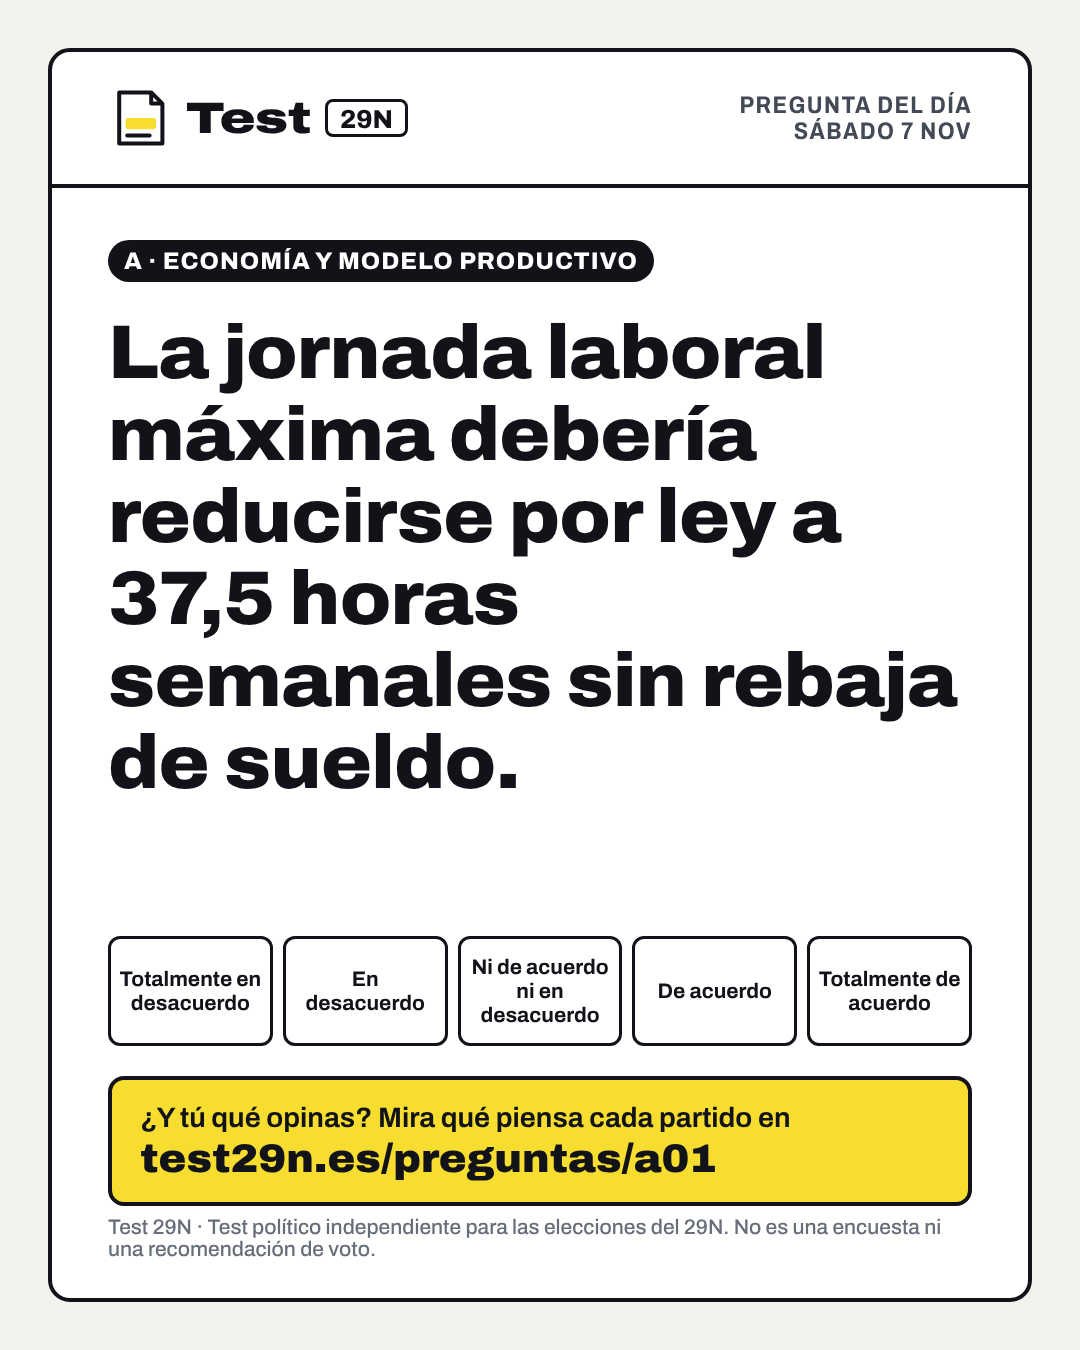
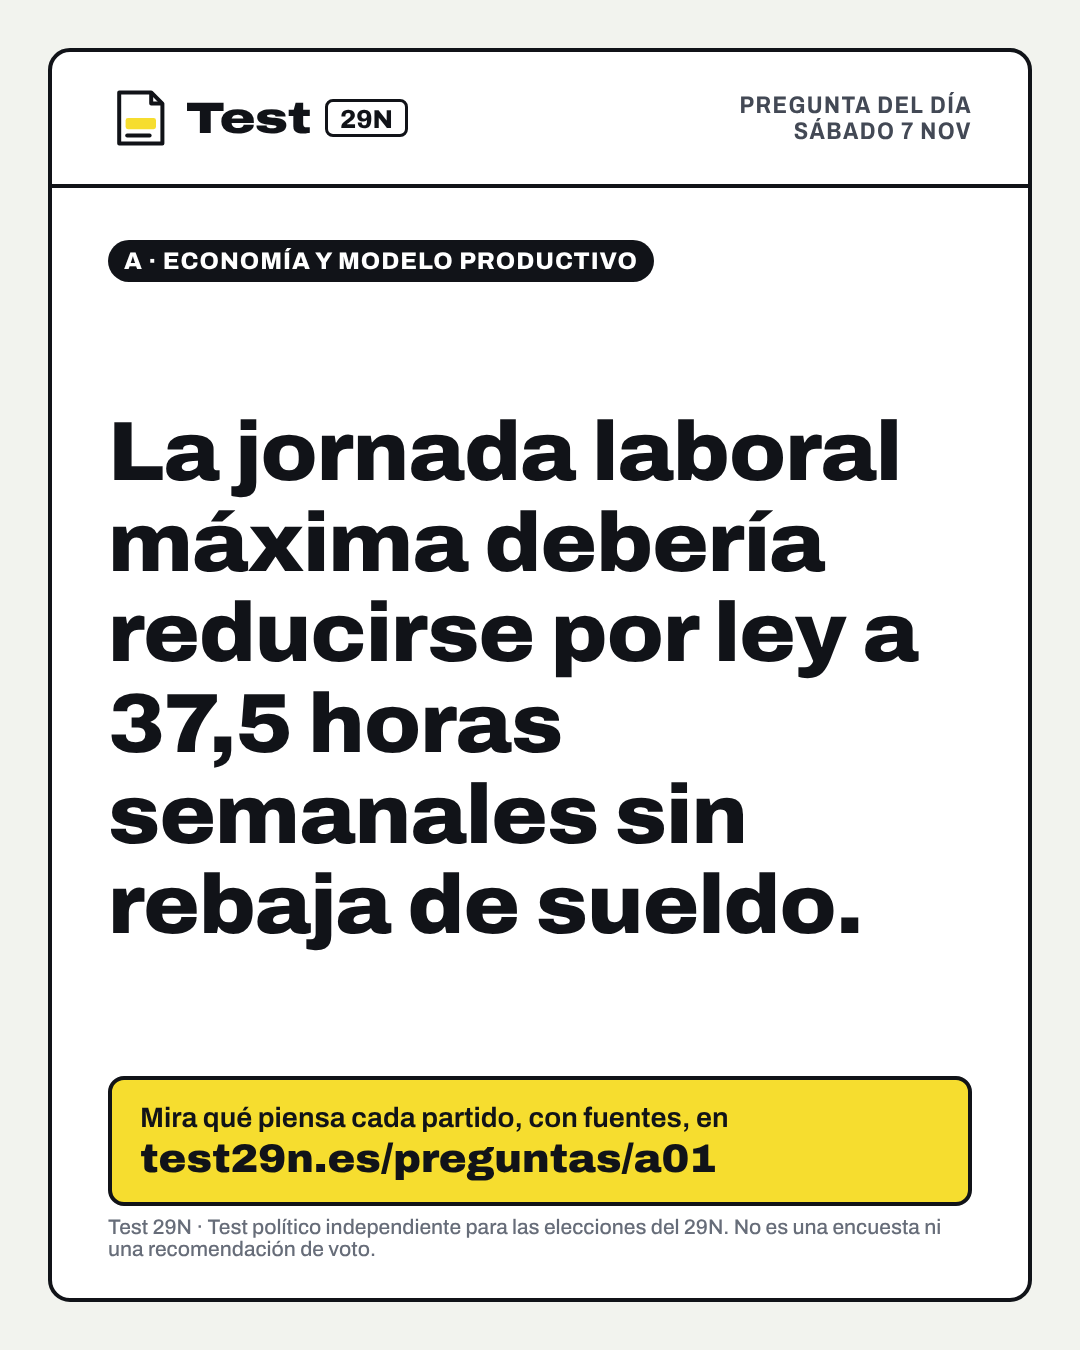
fix(T10): correcciones de la revisión, contactos del kit y estado
Claude-Session: https://claude.ai/code/session_014a98ujJVWkUYTS36vtSwAt

Changed region(s): [[0.0917, 0.2178, 0.9167, 0.7778], [0.1222, 0.8089, 0.7333, 0.84]]

diff --git a/assets/papeleta.js b/assets/papeleta.js
@@ -653,7 +653,7 @@ function topicDims(st) {
   return Object.keys(n).filter((d) => n[d] >= 2);
 }
 function profileSentence(M) {
-  const st = ST(), td = topicDims(st), tl = topicOf(st)?.label.toLowerCase();
+  const st = ST(), td = topicDims(st), tl = st?.topic === "territorio" ? "organización territorial" : topicOf(st)?.label.toLowerCase();
   const dims = Object.entries(M.user.dims).filter(([k]) => !td || td.includes(k));
   const strong = dims.filter(([, o]) => Math.abs(o.v) >= 25).sort((a, b) => Math.abs(b[1].v) - Math.abs(a[1].v));
   const mixed = BANK.dims.filter((d) => M.user.dims[d.id] && (!td || td.includes(d.id)) && Math.abs(M.user.dims[d.id].v) < 25);
@@ -1702,7 +1702,7 @@ function bindResults() {
       renderQuestion(0); go("quiz", { focus: false }); focusStatement();
     } else if (act === "new") {
       if (!confirm("¿Empezar de nuevo? Se borrarán tus respuestas guardadas en este navegador.")) return;
-      const keep = { mode: S.mode }; S = null; store.del(KEY); fillSetup(keep); go("home"); $("#start-btn").focus(); }
+      const keep = { mode: S.mode === "tema" ? "rapida" : S.mode }; S = null; store.del(KEY); fillSetup(keep); go("home"); $("#start-btn").focus(); }
     else if (act === "forget-friend") { store.del(FRIEND_KEY); renderFriend(); toast("Resultado compartido olvidado"); }
     else if (act === "own-test") { SHARED = null; try { history.replaceState(null, "", location.pathname + location.search); } catch { /* sin historial */ } S = loadState(); fillSetup(); go("home"); }
   });
@@ -2085,7 +2085,7 @@ async function drawCard(fmt) {
     if (withParty) { drawParty(g, L, y, CW, 168, M, st, 66); y += 168 + 30; }
     if (td && withParty) {
       drawDims(g, L, y, CW, 70, M, { nameW: 330, fs: 27, bar: 10, poles: true, dims: dl });
-      const ny = y + 70 * nd + 6, nh = (H - m - 120 - ny) / 3;
+      const ny = y + 70 * nd + 22, nh = (H - m - 120 - ny) / 3;
       drawNext(g, L, ny, CW, Math.min(64, nh), M, st, 24, 3);
     } else {
       const sq = dimsAt(y, H - m - 120 - y, td ? 90 : 62);

diff --git a/papeleta-29n.html b/papeleta-29n.html
@@ -101,7 +101,7 @@
 
     <section class="wrap band" id="temas" aria-labelledby="temas-h">
       <h2 id="temas-h" class="h2">Tests por tema</h2>
-      <p class="small muted">¿Solo te interesa un asunto? Responde de 6 a 7 preguntas sobre ese tema y mira con qué candidaturas coincides en él. Después puedes seguir con el test completo sin perder tus respuestas.</p>
+      <p class="small muted">¿Solo te interesa un asunto? Responde 6 o 7 preguntas sobre ese tema y mira con qué candidaturas coincides en él. Después puedes seguir con el test completo sin perder tus respuestas.</p>
       <ul class="topic-list" id="topic-list"></ul>
     </section>
 

diff --git a/plan/KIT.md b/plan/KIT.md
@@ -17,19 +17,19 @@ Preparado el 24 de octubre de 2026 (tanda T10). Lo ejecuta el titular: Claude no
 > https://test29n.es/tests/
 
 **Por tema** (cambia el tema y el enlace; imagen `test-<tema>.png`)
-> Test de vivienda para el 29N: 7 preguntas sobre alquiler, desahucios, okupación, pisos turísticos y viviendas vacías. Compara tus respuestas con las de los partidos que se presentan en tu provincia. No te dice a quién votar. https://test29n.es/tests/vivienda/
+> Test de vivienda para el 29N: 7 preguntas sobre alquiler, desahucios, viviendas ocupadas sin permiso, pisos turísticos y viviendas vacías. Compara tus respuestas con las de los partidos que se presentan en tu provincia. No te dice a quién votar. https://test29n.es/tests/vivienda/
 
 Enlaces: `/tests/vivienda/`, `/tests/inmigracion/`, `/tests/economia/`, `/tests/sanidad/`, `/tests/energia/`, `/tests/territorio/`.
 
 **Guion de vídeo corto (20–30 s, vertical)**
 1. (0–3 s) Texto en pantalla: «¿Con qué partido coincides en vivienda?»
 2. (3–12 s) Grabación de pantalla respondiendo 3 preguntas del test de vivienda.
-3. (12–20 s) Resultado: «Tu mayor coincidencia en tu provincia» (difumina el partido si quieres evitar cualquier lectura partidista) y el botón «Afinar con la versión exprés».
+3. (12–20 s) Resultado **sin ningún partido visible** (desmarca la opción de incluir el partido al compartir o difumínalo siempre) y el botón «Afinar con la versión exprés».
 4. (20–25 s) Cierre: «6 temas, 2 minutos cada uno. test29n.es/tests. No te dice a quién votar.»
 
 ### Reta a un amigo
 **Corto**
-> ¿Cuánto coincides en política con tus amigos? Haz el Test 29N y pulsa «Reta a un amigo»: le llega un enlace para comparar vuestros resultados. Sin registro y sin que tus respuestas salgan de tu móvil (solo las ve quien abre tu enlace). https://test29n.es
+> ¿Cuánto coincides en política con tus amigos? Haz el Test 29N y pulsa «Reta a un amigo»: le llega un enlace para comparar vuestros resultados. Sin registro: tus respuestas viajan dentro del enlace y no se guardan en ningún servidor. https://test29n.es
 
 **Guion de vídeo corto (15–20 s)**
 1. Dos personas, cada una con su móvil: «¿Apostamos a que no pensamos igual?»
@@ -94,4 +94,71 @@ Imagen diaria: `https://test29n.es/redes/pregunta-AAAA-MM-DD.png`. Fechas oficia
 
 ## 3. Contactos con canal público
 
-CONTACTOS
+Comprobados el 24 de octubre de 2026: cada canal aparece en la página indicada en «Visto en». No se ha contactado con nadie. «(solo redes)»: sin correo ni formulario verificado, solo su perfil oficial. **Orden de prioridad:** primero los docentes y las asociaciones (usan el test en clase y con jóvenes, sin coste de imagen partidista), después los medios de verificación y datos, y por último los creadores. Dentro de cada sección, de más a menos prioritario.
+
+**Cómo escribir:** un mensaje corto y personal, sin adjuntos pesados, con el enlace a https://test29n.es/prensa/ (imágenes, botón y mini test insertable). Nunca después del 23 de noviembre.
+
+### 3.1 Docentes y educación
+
+| Nombre | Por qué | Contacto público | Visto en |
+|---|---|---|---|
+| Red Española de Filosofía (REF) | Red del profesorado y de las asociaciones de filosofía | info@redfilosofia.es | https://redfilosofia.es/contacto-2/ |
+| Educación 3.0 | Portal y revista para docentes | redaccion@educaciontrespuntocero.com | https://www.educaciontrespuntocero.com/contacto/ |
+| El Diario de la Educación | Medio especializado en educación | redaccion@eldiariodelaeducacion.com | https://eldiariodelaeducacion.com/ |
+| Asociación Andaluza de Filosofía (AAFi) | Profesorado de filosofía de secundaria | Formulario: https://aafi.es/contacto-con-la-aafi/ | https://aafi.es/contacto-con-la-aafi/ |
+| Magisnet / Magisterio | Periódico para docentes | Formulario: https://www.magisnet.com/contacto/ | https://www.magisnet.com/contacto/ |
+| AECPA, Asociación Española de Ciencia Política y de la Administración | Red académica de ciencia política | info@aecpa.es | https://www.aecpa.es/ |
+| CREUP | Representación estudiantil universitaria | prensa@creup.es · info@creup.es | https://creup.es/contacto/ |
+| ANPE | Sindicato independiente del profesorado | anpe@anpe.es (o formulario) | https://www.anpe.es/contacto |
+| Departamento de Ciencia Política y Sociología, Universidade de Santiago de Compostela | Departamento universitario | departamento.politicaesocioloxia@usc.es (publicado con «[at]») | https://www.usc.gal/es/departamento/ciencia-politica-sociologia |
+| Facultad de Derecho de la UAM (Ciencia Política) | Grado de Ciencia Política | derecho.informacion@uam.es | https://www.uam.es/Derecho/CienciaPolitica/ |
+
+### 3.2 Asociaciones
+
+| Nombre | Por qué | Contacto público | Visto en |
+|---|---|---|---|
+| Consejo de la Juventud de España (CJE) | Plataforma estatal de entidades juveniles | info@cje.org (o formulario) | https://www.cje.org/contacto/ |
+| CANAE | Estudiantes de secundaria; participación juvenil | info@canae.org | https://canae.org/ |
+| Fundación Ciudadana Civio | Periodismo de datos y transparencia | contacto@civio.es | https://civio.es/nosotros/contacto/ |
+| Political Watch | Seguimiento parlamentario y de políticas públicas | info@politicalwatch.es | https://politicalwatch.es/ (pie de página) |
+| Consell Nacional de la Joventut de Catalunya (CNJC) | Plataforma juvenil catalana | Formulario: https://cnjc.cat/es/contacto | https://cnjc.cat/es/contacto |
+| Consejo de la Juventud de Castilla y León | Consejo juvenil autonómico | cjcyl@cjcyl.es | https://www.cjcyl.es/ |
+| Consejo de la Juventud de Extremadura (CJEx) | Consejo juvenil autonómico | info@cjex.org | https://www.cjex.org/contacto/ |
+| Access Info Europe | Acceso a la información pública | info@access-info.org | https://www.access-info.org/es/contact/ |
+| Transparencia Internacional España | Transparencia y lucha contra la corrupción | comunicacion@transparencia.org.es | https://transparencia.org.es/contacto/ |
+| Fundación Hay Derecho | Estado de derecho y calidad institucional | info@hayderecho.com (o formulario) | https://www.hayderecho.com/contacta-con-nosotros/ |
+
+### 3.3 Medios
+
+| Nombre | Por qué | Contacto público | Visto en |
+|---|---|---|---|
+| Newtral | Verificación de datos y explicación de política | info@newtral.es | https://www.newtral.es/contacto/ |
+| EFE Verifica | Verificación de la Agencia EFE | verifica@efe.com | https://verifica.efe.com/contacto/ |
+| VerificaRTVE | Verificación de la radiotelevisión pública | verificartve@rtve.es | https://www.rtve.es/noticias/verificartve/ |
+| Maldita.es (solo redes) | Verificación y periodismo de datos | https://twitter.com/maldita · https://www.instagram.com/maldita.es/ | https://maldita.es/ (pie de página) |
+| Verificat | Verificación de datos en Cataluña | hola@verificat.cat | https://www.verificat.cat/ |
+| elDiario.es | Diario nacional, política y datos | contacto@eldiario.es | https://www.eldiario.es/contacto/ |
+| El País | Diario nacional; cobertura electoral y datos | redaccion@elpais.es | https://elpais.com/info/contacto/ |
+| La Vanguardia (Política) | Diario de referencia en Cataluña | politica@lavanguardia.es | https://www.lavanguardia.com/contacto |
+| La Voz de Galicia (España) | Principal diario gallego | espana@lavoz.es | https://www.lavozdegalicia.es/contacto/ |
+| infoLibre | Diario digital de política | contacta@infolibre.es | https://www.infolibre.es/contacto/ |
+| Diario de Sevilla | Diario regional andaluz | redaccion@diariodesevilla.es | https://www.diariodesevilla.es/contacto/ |
+| CTXT | Revista de análisis político | info@ctxt.es | https://www.ctxt.es/es/contacto |
+
+### 3.4 Creadores y divulgadores
+
+| Nombre | Por qué | Contacto público | Visto en |
+|---|---|---|---|
+| Kiko Llaneras, boletín «Piensa claro» (solo redes) | Periodista de datos y de elecciones | https://twitter.com/kikollan · https://instagram.com/kikollan · https://kikollaneras.substack.com/ | https://substack.com/@kikollan |
+| Pablo Simón (solo redes) | Politólogo, divulga sobre sistemas electorales | https://twitter.com/kanciller | https://www.eldiario.es/autores/pablo_simon/ |
+| Politikon | Politólogos y economistas que divulgan con datos | contacto@politikon.es | https://politikon.es/contacto/ |
+| El Orden Mundial (EOM) | Divulgación política: web, boletín y redes | contacto@elordenmundial.com | https://elordenmundial.com/ (pie de página) |
+| Ac2ality (solo redes) | Noticias para jóvenes en TikTok e Instagram | https://www.tiktok.com/@ac2ality · https://www.instagram.com/ac2ality/ | https://www.ac2ality.com/ |
+| Agenda Pública | Análisis político escrito por académicos | info@agendapublica.es | https://agendapublica.es/contacto/ |
+| Piedras de Papel (solo redes) | Blog de politólogos en elDiario.es | https://twitter.com/Piedras_Papel | https://www.eldiario.es/piedrasdepapel/ |
+| VisualPolitik (solo redes) | Canal de YouTube de divulgación política | https://www.youtube.com/@VisualPolitik | https://www.visualpolitik.com/ |
+| The Political Room (solo redes) | Análisis político divulgativo | https://twitter.com/Political_Room · https://www.instagram.com/thepoliticalroom.tpr/ | https://thepoliticalroom.com/ |
+| Nada es Gratis | Blog de economía pública con fines didácticos | info@nadaesgratis.es | https://nadaesgratis.es/ |
+| El Grand Continent, en español (solo redes) | Revista de debate político europeo | https://twitter.com/Grand_Continent | https://legrandcontinent.eu/es/ |
+
+Se dejaron fuera, a propósito: buzones solo para privacidad o filtraciones (Maldita, pistas@eldiario.es), correos con nombre de persona, y medios cuyo canal no se pudo comprobar (RTVE general, El Confidencial, Cadena SER, Facultad de Políticas de la UCM). La búsqueda semanal de creadores (tarea programada) amplía esta lista.

diff --git a/plan/ESTADO.md b/plan/ESTADO.md
@@ -1,13 +1,14 @@
 # Estado del plan (lo más reciente arriba)
 
-## Ficha de continuidad (actualizada el 23 oct 2026)
+## Ficha de continuidad (actualizada el 24 oct 2026)
 
 **Aviso para la próxima tanda (leer primero).** El 20 oct se agotó el límite de uso y las tandas T9 (a medias), T2, T3 y T4 no llegaron a hacerse. Las tareas perdidas no se recuperan solas. Orden de trabajo acordado, por valor:
 1. ~~Cerrar T9, parte 1~~ **Hecho y publicado el 23 oct** (ver la entrada de abajo).
 2. ~~T2~~ **Hecho y publicado el 23 oct** (ver la entrada de abajo).
 3. ~~T3~~ **Hecho y publicado el 23 oct.**
 4. La tanda del día.
-5. ~~T4~~ **Hecho y publicado el 24 oct.** Siguiente: la tanda del día (T10) y después T5–T8 y T11 según el calendario.
+5. ~~T4~~ **Hecho y publicado el 24 oct.**
+6. ~~T10~~ **Hecho y publicado el 24 oct.** Siguiente: T5–T8 y T11 según el calendario.
 Cada tanda hace lo que le dé tiempo en este orden y anota aquí lo que quede. Referencia completa: `plan/ESTADO_MAESTRO_WEB_POLITICA.md`.
 
 
@@ -16,7 +17,8 @@ Cada tanda hace lo que le dé tiempo en este orden y anota aquí lo que quede. R
 - T9 · Buscadores y datos abiertos: completada y verificada (web real, 23 oct).
 - T2 · Test rápido y resultados: completada y verificada (web real, 23 oct).
 - T3 · Guía para votar y calendario: completada y verificada (web real, 23 oct).
-- T4 · Provincias, simulador y glosario: completada y verificada (web real, 24 oct). T10, T5–T8, T11: pendientes.
+- T4 · Provincias, simulador y glosario: completada y verificada (web real, 24 oct).
+- T10 · Tests por tema, imágenes para redes y kit: completada y verificada (web real, 24 oct). T5–T8, T11: pendientes.
 - R1, R2, S1, S2, P1: pendientes.
 - Donación por Bizum: bloqueada por dependencia externa (aprobación de Stripe; la comprueba otra tarea).
 
@@ -34,6 +36,17 @@ Cada tanda hace lo que le dé tiempo en este orden y anota aquí lo que quede. R
 - En la barra del test a 390 px, «Área 1 de 12 · Economía y…» se corta con puntos suspensivos.
 
 **Próxima tarea prioritaria:** T9 (20 oct), buscadores y datos abiertos. No depende de nada externo.
+
+## 24 oct 2026 · T10 · Tests por tema, imágenes para redes y kit de difusión
+- **Tests por tema** (vivienda, inmigración, impuestos y economía, sanidad, energía y medioambiente, territorio; 6 o 7 preguntas, lista en `src/temas.src.mjs` y copiada en `assets/papeleta.js`, una prueba comprueba que coinciden):
+  - Se empiezan desde la portada (`#temas`) o con `/?tema=<id>`. Si ya hay un test guardado, se pide confirmación (portada) o se señala el tema sin borrar nada (`?tema=`).
+  - El último paso solo pide la provincia; el resultado se titula «Test de …» y el perfil se limita a la dimensión que mide el tema. «Afinar» pasa a la exprés conservando las respuestas.
+  - Compartir: texto con el tema y enlace `?tema=`; código propio por tema en los enlaces `#r2` (v, i, k, s, g, x; los antiguos r, e, m, c siguen valiendo); tarjetas con la etiqueta del tema, su dimensión y las siguientes coincidencias.
+  - Páginas `/tests/` y `/tests/<tema>/` (7 nuevas, en el sitemap y en los pies).
+- **Imágenes para redes** (`qa/redes.mjs` → `qa/redes/` → `dist/redes/`): 29 «preguntas del día» del 26 oct al 23 nov (ninguna del 24 al 28) y una tarjeta por tema, 1080 × 1350. Sin casillas de respuesta, para que no parezcan una encuesta.
+- **`plan/KIT.md`:** textos y guiones (tests por tema, reta a un amigo, guía para votar, simulador, pregunta del día), calendario día a día hasta el 27 nov (pausa del 24 al 28) con fechas comprobadas contra `src/votar.src.mjs`, y 43 contactos con canal público verificado el 24 oct, por prioridad.
+- **Revisión independiente:** nada bloqueante. Corregido: viñetas en `/tests/<tema>/`, imágenes con aspecto de encuesta, guion sin partido visible, «okupación», textos de la portada y del reto, frase de territorio, versión marcada tras «Empezar de nuevo», separación en la tarjeta cuadrada.
+- **Pruebas:** nueva `qa/temas.mjs`; las 19 baterías pasan en local y en https://test29n.es.
 
 ## 24 oct 2026 · T4 · Provincias, simulador y glosario
 - **52 páginas `/provincias/<id>/` y su índice:** diputados según el anexo del Real Decreto 806/2026 (suman 350, en `src/escanos.src.mjs`), senadores según el art. 3.2 del real decreto y la LOREG (con la Ley Orgánica 2/2026, Ibiza y Formentera eligen 1 senador cada una), las candidaturas que se presentan según los datos del test y un enlace al simulador.

diff --git a/plan/ESTADO_MAESTRO_WEB_POLITICA.md b/plan/ESTADO_MAESTRO_WEB_POLITICA.md
@@ -39,7 +39,7 @@ Revisado el 23 oct 2026 (tras publicar T9, parte 1). Resume y enlaza; no repite 
 - T1: sin sexo ni edad, titular único con «Empezar», provincia al final y pregunta de ejemplo real.
 - T9, parte 1: título y descripción para buscadores, un único H1, 5 preguntas frecuentes con datos estructurados y fecha del BOE, y `qa/seo.mjs`. Las 13 baterías pasan en la web real.
 
-**Pendientes [?]:** resto de T9 (`/comparar/`, `/datos/`, `/insertar/`); T2, T3 y T4 (no se ejecutaron por el límite de uso); T5 a T8, T10 y T11, según `PLAN.md`. 82 posturas tienen fuente.
+**Pendientes [?]:** T5 a T8 y T11, según `PLAN.md` (T9, T2, T3, T4 y T10 ya están publicadas: ver `ESTADO.md`). 82 posturas tienen fuente.
 
 ## 6. Decisiones confirmadas (no cambiar sin autorización)
 - **[D]** Reglas de `PROMPT-ORIGINAL.md` (sección 3) y de `PLAN.md` (reglas 1–15): neutralidad, nada de encuestas ni de promoción del 24 al 28 de noviembre, nada de datos inventados, privacidad, responsable público «Dery», ningún dato bancario y los textos fijados.
